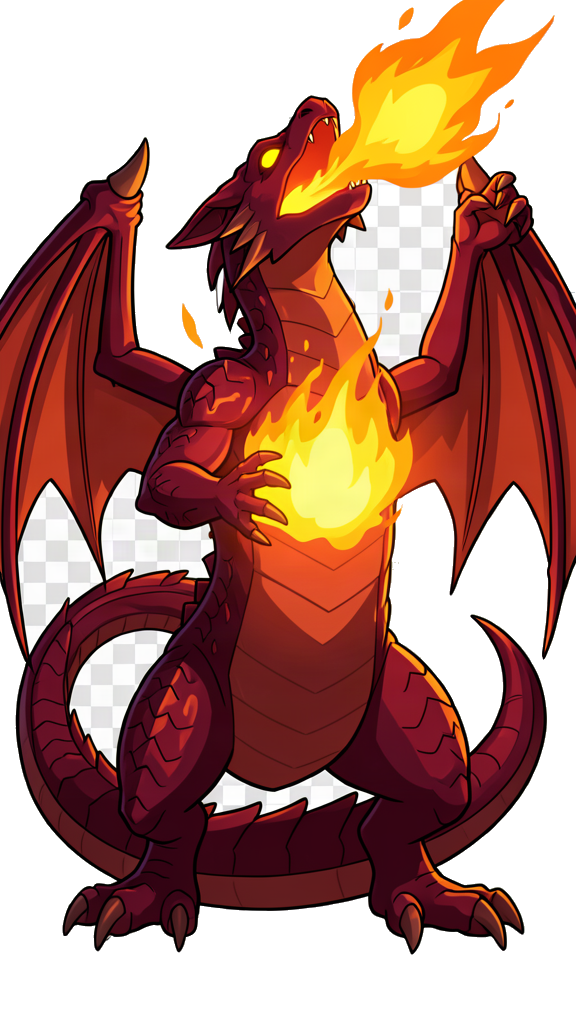
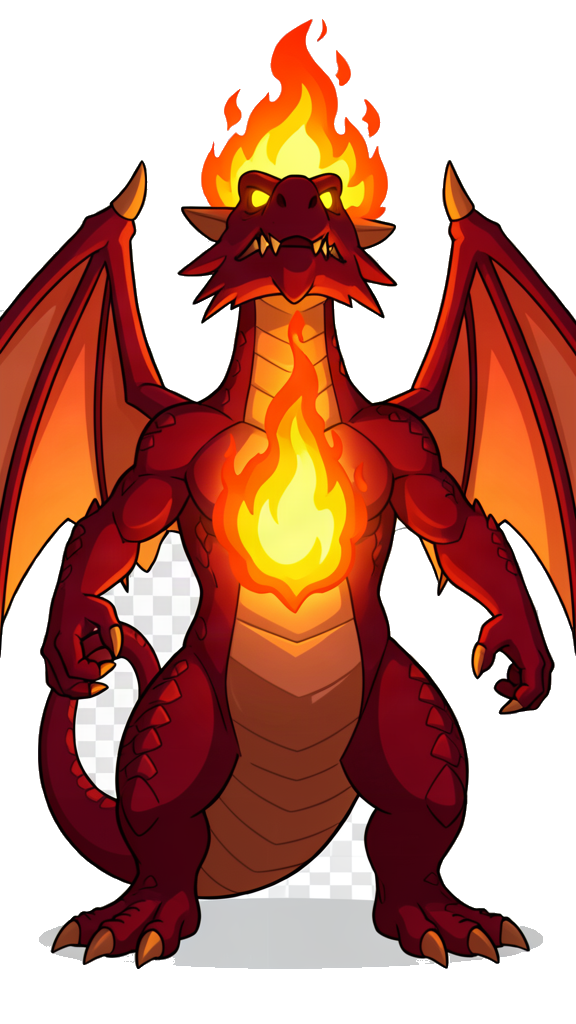
8 monsters with full frame + skill VFX: slime/ice/virus/spore/oni/zombie/troll/dragon, 9x9 map

diff --git a/map.html b/map.html
@@ -110,7 +110,18 @@
     filter:blur(2px);opacity:0;pointer-events:none;animation:breathBurst .6s ease forwards}
   @keyframes breathBurst{0%{opacity:0;transform:translate(-50%,-50%) scale(.3)}40%{opacity:.95}100%{opacity:0;transform:translate(-50%,-50%) scale(2.2)}}
 
-  /* skill cast glow on hero sprite */
+  /* monster skill VFX — colored radial bursts over the arena */
+  .fx{position:absolute;z-index:4;left:50%;top:42%;width:70px;height:70px;border-radius:50%;
+    filter:blur(1px);opacity:0;pointer-events:none;transform:translate(-50%,-50%);animation:fxBurst .6s ease forwards}
+  @keyframes fxBurst{0%{opacity:0;transform:translate(-50%,-50%) scale(.2)}35%{opacity:.95}100%{opacity:0;transform:translate(-50%,-50%) scale(2.4)}}
+  .fx-splash{background:radial-gradient(circle,#aaffcc 0%,#39d98a 35%,transparent 72%)}
+  .fx-ice{background:radial-gradient(circle,#dff6ff 0%,#7cdbff 35%,transparent 72%)}
+  .fx-spike{background:radial-gradient(circle,#ffd1f5 0%,#c84bff 35%,transparent 72%)}
+  .fx-spore{background:radial-gradient(circle,#fff3b0 0%,#ffd24a 35%,transparent 72%)}
+  .fx-slash{background:radial-gradient(circle,#ffd0d0 0%,#ff4a4a 35%,transparent 72%)}
+  .fx-curse{background:radial-gradient(circle,#d9b3ff 0%,#7c2bd6 35%,transparent 72%)}
+  .fx-stomp{background:radial-gradient(circle,#c8d6ff 0%,#5c6bff 35%,transparent 72%)}
+
   .sprite.casting{animation:cast .5s ease}
   @keyframes cast{0%{filter:drop-shadow(0 0 14px rgba(124,92,255,.55)) brightness(1)}
     40%{filter:drop-shadow(0 0 30px rgba(180,120,255,1)) brightness(1.8) saturate(1.6)}100%{filter:drop-shadow(0 0 14px rgba(124,92,255,.55)) brightness(1)}}
@@ -191,21 +202,30 @@
 <script>
 (function(){
   // ---- Map setup ----
-  const COLS=7, ROWS=7;
+  const COLS=9, ROWS=9;
   // 0 = grass, 1 = road, monsters at given coords
   const grid = Array.from({length:ROWS},()=>Array(COLS).fill(0));
-  // mark a winding road
-  const road=[[3,0],[3,1],[3,2],[3,3],[2,3],[1,3],[1,4],[1,5],[2,5],[3,5],[4,5],[4,4],[4,3]];
-  road.forEach(([r,c])=>grid[r][c]=1);
+  // mark a winding road covering all quadrants so hero can reach every monster
+  const road=[];
+  for(let c=0;c<COLS;c++) road.push([4,c]);      // horizontal mid corridor
+  for(let r=0;r<ROWS;r++) road.push([r,4]);      // vertical mid corridor
+  // connect corners
+  road.push([1,3],[1,4],[2,6],[5,5],[6,2],[1,7],[4,7],[7,4],[7,7]);
+  road.forEach(([r,c])=>{ if(r>=0&&r<ROWS&&c>=0&&c<COLS) grid[r][c]=1; });
   // hero start
   let pos={r:3,c:0};
   // monsters: stage 0,1,2 placed on map
   const monsters=[
-    {stage:0, r:1, c:3, name:'บอทกากเน็ต', img:'assets/slime.png', alive:true},
-    {stage:1, r:4, c:4, name:'ไวรัสจอมจุ้น', img:'assets/virus.png', alive:true},
-    {stage:2, r:3, c:6, name:'เจ้าพ่อเน็ตกาก', img:'assets/dragon.png', alive:true},
+    {stage:0, r:1, c:3, name:'บอทกากเน็ต', img:'assets/slime_idle.png', id:0, alive:true},
+    {stage:0, r:5, c:5, name:'สไลม์น้ำแข็ง', img:'assets/iceslime_idle.png', id:1, alive:true},
+    {stage:1, r:2, c:6, name:'ไวรัสจอมจุ้น', img:'assets/virus_idle.png', id:2, alive:true},
+    {stage:1, r:6, c:2, name:'สปอร์เหลือง', img:'assets/spore_idle.png', id:3, alive:true},
+    {stage:2, r:1, c:7, name:'อสูรกาก', img:'assets/oni_idle.png', id:4, alive:true},
+    {stage:2, r:4, c:7, name:'ผีดิบเน็ต', img:'assets/zombie_idle.png', id:5, alive:true},
+    {stage:2, r:7, c:4, name:'ยักษ์เน็ต', img:'assets/troll_idle.png', id:6, alive:true},
+    {stage:2, r:7, c:7, name:'เจ้าพ่อเน็ตกาก', img:'assets/dragon_idle.png', id:7, alive:true},
   ];
-  const ENEMY_IMG=['assets/slime.png','assets/virus.png','assets/dragon.png'];
+  const ENEMY_IMG=['assets/slime.png','assets/iceslime_idle.png','assets/virus.png','assets/spore_idle.png','assets/oni_idle.png','assets/zombie_idle.png','assets/troll_idle.png','assets/dragon.png'];
 
   const mapEl=document.getElementById('map');
   const progressEl=document.getElementById('progress');
@@ -274,13 +294,13 @@
   function bSet(on){['bAtk','bSkill','bHeal'].forEach(id=>$(id).disabled=!on);}
   function startBattle(m){
     battleOpen=true; curMonster=m; busy=false;
-    hero=createHero(); enemy=createEnemy(m.stage);
+    hero=createHero(); enemy=createEnemy(m.id);
     bLog.innerHTML=''; bAdd('⚔ เจอ '+m.name+'! การต่อสู้เริ่มต้น','sys');
     $('bTitle').textContent='⚔ ต่อสู้กับ '+m.name;
     $('battle').classList.add('show');
     // preload + cache Image objects so frame-swaps are instant (no network wait)
     FR._cache = {};
-    [FR.hero, enemyFrames()].forEach((f,idx)=>{
+    [FR.hero, enemyFrames()].forEach((f)=>{
       ['idle','wind','hit'].forEach(k=>{
         if(f[k]){ const im=new Image(); im.src=bImg(f[k]); FR._cache[f[k]]=im; }
       });
@@ -296,7 +316,7 @@
     dragon: { idle:'assets/dragon.png',  wind:'assets/dragon_wind.png', hit:'assets/dragon_breath.png', breath:true },
   };
   function heroFrames(){ return FR.hero; }
-  function enemyFrames(){ return FR[['slime','virus','dragon'][curMonster.stage]] || FR.slime; }
+  function enemyFrames(){ return (enemy && enemy.frames) ? enemy.frames : FR.slime; }
   // Smooth attack: wind-up (anticipation) -> dash in + strike frame -> recover to idle
   function playAttack(attackerSpriteEl, targetSpriteEl, frames, opts){
     opts = opts || {};
@@ -332,6 +352,12 @@
     const arena=$('battle').querySelector('.arena');
     const b=document.createElement('div'); b.className='breath';
     arena.appendChild(b); setTimeout(()=>b.remove(),650);
+  }
+  // Skill VFX per monster type — colored burst overlay on the target sprite
+  function spawnFx(fx){
+    const arena=$('battle').querySelector('.arena');
+    const el=document.createElement('div'); el.className='fx fx-'+fx;
+    arena.appendChild(el); setTimeout(()=>el.remove(),650);
   }
   function bAct(type){
     if(busy)return; busy=true; bSet(false);
@@ -381,6 +407,7 @@
     const dmgAt = EF.breath ? 480 : 440;
     setTimeout(()=>floatDmg(heroS,e.dmg),dmgAt);
     const moveName = (e.type==='heavy' && enemy.skill) ? enemy.skill.name : 'โจมตี';
+    if(e.type==='heavy' && enemy.skill && enemy.skill.fx) spawnFx(enemy.skill.fx);
     bAdd(enemy.name+' ใช้ '+moveName+' -'+e.dmg,'foe');
     bRender();
     const st=battleState(hero,enemy);

diff --git a/game.js b/game.js
@@ -42,18 +42,42 @@ function createHero() {
   });
 }
 
-// Enemy templates per stage (index 0..2)
-function createEnemy(stage) {
+// Enemy templates — 8 monsters across 3 dungeon stages
+// stage field groups them; each has idle/wind/hit frame keys + a unique skill
+function createEnemy(id) {
   const table = [
-    { name: 'บอทกากเน็ต', sprite: '🤖', spriteImg: 'assets/slime.png', weapon: 'body', attackStyle: 'tackle',
-      skill: { name: 'สาดสลาย', style: 'splash', desc: 'กระโดดจี๊ดสาดสไลม์ใส่' }, hp: 70,  mp: 0, atk: 16, def: 4 },
-    { name: 'ไวรัสจอมจุ้น', sprite: '🦠', spriteImg: 'assets/virus.png', weapon: 'spike', attackStyle: 'stab',
-      skill: { name: 'แทงหนาม', style: 'spike', desc: 'ยิงหนามไวรัสแทงทะลุ' }, hp: 95,  mp: 0, atk: 21, def: 6 },
-    { name: 'เจ้าพ่อเน็ตกาก', sprite: '👹', spriteImg: 'assets/dragon.png', weapon: 'fire', attackStyle: 'bite',
-      skill: { name: 'พ่นไฟกาก', style: 'breath', desc: 'อ้าปากพ่นไฟเผาไล่' }, hp: 160, mp: 0, atk: 27, def: 10 },
+    // Stage 1 — Slime family
+    { name: 'บอทกากเน็ต', sprite: '🤖', spriteImg: 'assets/slime.png', weapon: 'body', attackStyle: 'tackle', stage: 0,
+      frames: { idle:'assets/slime_idle.png', wind:'assets/slime_wind.png', hit:'assets/slime_hit.png' },
+      skill: { name: 'สาดสลาย', style: 'splash', fx:'splash', desc: 'กระโดดจี๊ดสาดสไลม์ใส่' }, hp: 70,  mp: 0, atk: 16, def: 4 },
+    { name: 'สไลม์น้ำแข็ง', sprite: '🔵', spriteImg: 'assets/iceslime_idle.png', weapon: 'ice', attackStyle: 'ram', stage: 0,
+      frames: { idle:'assets/iceslime_idle.png', wind:'assets/iceslime_wind.png', hit:'assets/iceslime_hit.png' },
+      skill: { name: 'ปะทะเย็นเฉียบ', style: 'splash', fx:'ice', desc: 'พุ่งชนพร้อมเหน็บความเย็น' }, hp: 85,  mp: 0, atk: 18, def: 5 },
+    // Stage 2 — Virus family
+    { name: 'ไวรัสจอมจุ้น', sprite: '🦠', spriteImg: 'assets/virus.png', weapon: 'spike', attackStyle: 'stab', stage: 1,
+      frames: { idle:'assets/virus_idle.png', wind:'assets/virus_wind.png', hit:'assets/virus_hit.png' },
+      skill: { name: 'แทงหนาม', style: 'spike', fx:'spike', desc: 'ยิงหนามไวรัสแทงทะลุ' }, hp: 95,  mp: 0, atk: 21, def: 6 },
+    { name: 'สปอร์เหลือง', sprite: '🟡', spriteImg: 'assets/spore_idle.png', weapon: 'spore', attackStyle: 'shoot', stage: 1,
+      frames: { idle:'assets/spore_idle.png', wind:'assets/spore_wind.png', hit:'assets/spore_hit.png' },
+      skill: { name: 'ระเบิดสปอร์', style: 'spike', fx:'spore', desc: 'ยิงสปอร์ระเบิดใส่' }, hp: 110, mp: 0, atk: 23, def: 7 },
+    // Stage 3 — Dragon lord + minions
+    { name: 'อสูรกาก', sprite: '👹', spriteImg: 'assets/oni_idle.png', weapon: 'claw', attackStyle: 'slash', stage: 2,
+      frames: { idle:'assets/oni_idle.png', wind:'assets/oni_wind.png', hit:'assets/oni_hit.png' },
+      skill: { name: 'เหวี่ยงกรงเล็บ', style: 'slash', fx:'slash', desc: 'ฟาดกรงเล็บแดงฉาน' }, hp: 130, mp: 0, atk: 25, def: 9 },
+    { name: 'ผีดิบเน็ต', sprite: '🧟', spriteImg: 'assets/zombie_idle.png', weapon: 'claw', attackStyle: 'claw', stage: 2,
+      frames: { idle:'assets/zombie_idle.png', wind:'assets/zombie_wind.png', hit:'assets/zombie_hit.png' },
+      skill: { name: 'คำสาปลาก', style: 'curse', fx:'curse', desc: 'ตะครุบแล้วสาปให้สะดุด' }, hp: 120, mp: 0, atk: 24, def: 8 },
+    { name: 'ยักษ์เน็ต', sprite: '👾', spriteImg: 'assets/troll_idle.png', weapon: 'stomp', attackStyle: 'stomp', stage: 2,
+      frames: { idle:'assets/troll_idle.png', wind:'assets/troll_wind.png', hit:'assets/troll_hit.png' },
+      skill: { name: 'เหยียบย่ำ', style: 'stomp', fx:'stomp', desc: 'เหยียบย่ำด้วยฝ่าเท้ายักษ์' }, hp: 140, mp: 0, atk: 26, def: 10 },
+    { name: 'เจ้าพ่อเน็ตกาก', sprite: '🐉', spriteImg: 'assets/dragon.png', weapon: 'fire', attackStyle: 'bite', stage: 2,
+      frames: { idle:'assets/dragon_idle.png', wind:'assets/dragon_wind.png', hit:'assets/dragon_hit.png' },
+      skill: { name: 'พ่นไฟกาก', style: 'breath', fx:'breath', desc: 'อ้าปากพ่นไฟเผาไล่' }, hp: 180, mp: 0, atk: 30, def: 12 },
   ];
-  return makeEntity(table[stage]);
+  return makeEntity(table[id]);
 }
+// keep stage->id mapping for map.js (monster order)
+const ENEMY_BY_STAGE = { 0:[0,1], 1:[2,3], 2:[4,5,6,7] };
 
 // ---- Combat math ----
 // Basic attack: physical, reduced by def
